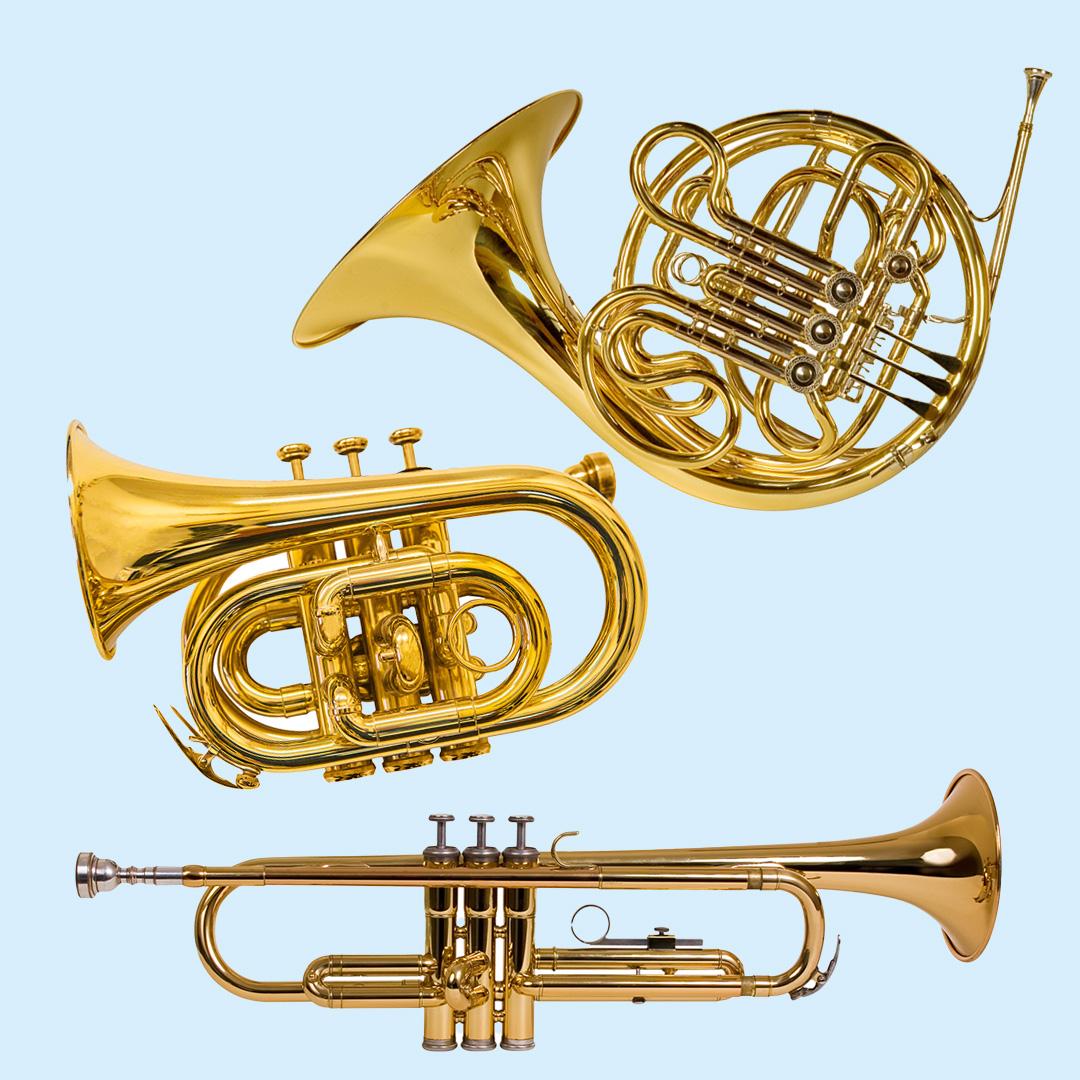
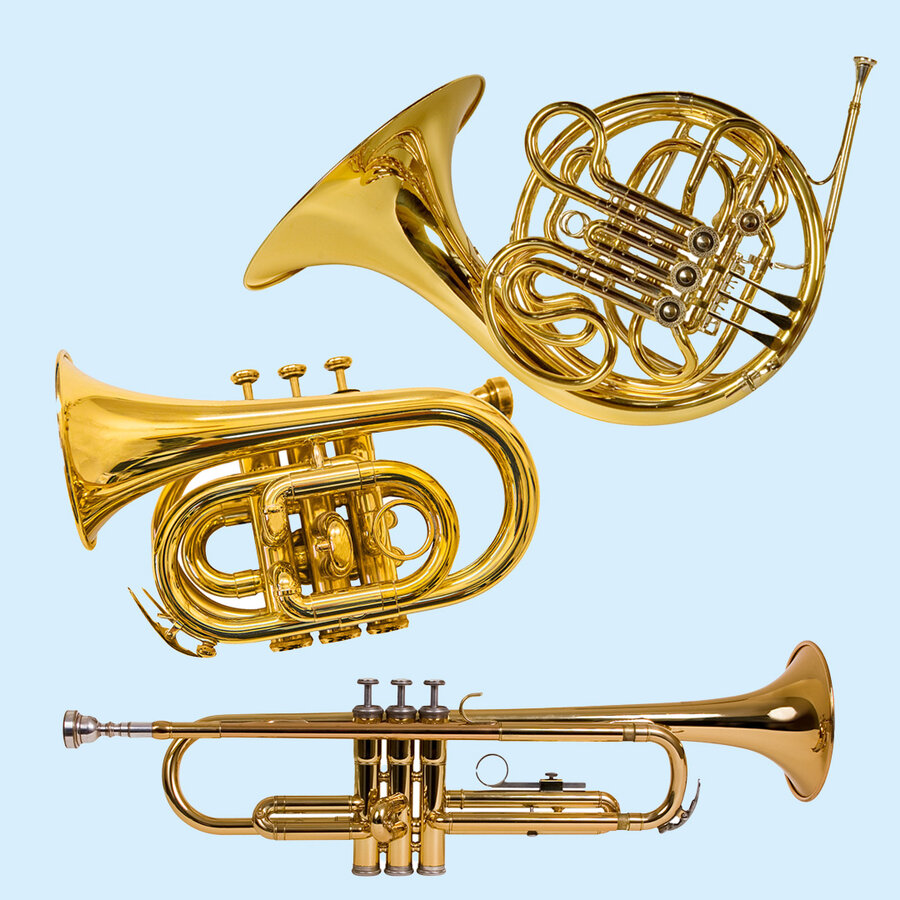
Resize wind instruments image to 900x900

diff --git a/js/version.js b/js/version.js
@@ -1,2 +1,2 @@
-export const APP_VERSION = "127";
-export const APP_BUILD_TIME = "2026-10-06 16:00"; // local time of the bump
+export const APP_VERSION = "128";
+export const APP_BUILD_TIME = "2026-10-06 16:06"; // local time of the bump

diff --git a/sw.js b/sw.js
@@ -1,4 +1,4 @@
-const CACHE_NAME = "ontime-streak-v127";
+const CACHE_NAME = "ontime-streak-v128";
 const ASSETS = [
   "./",
   "./index.html",
